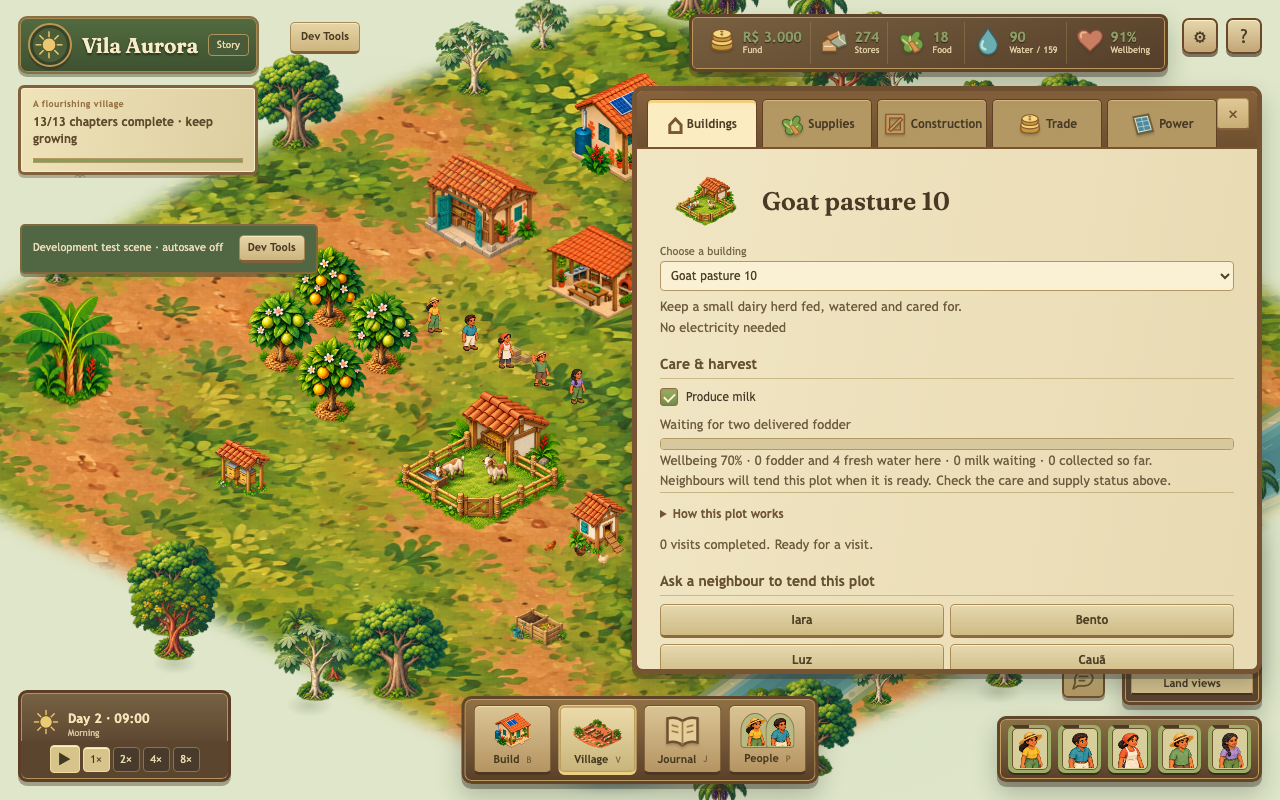
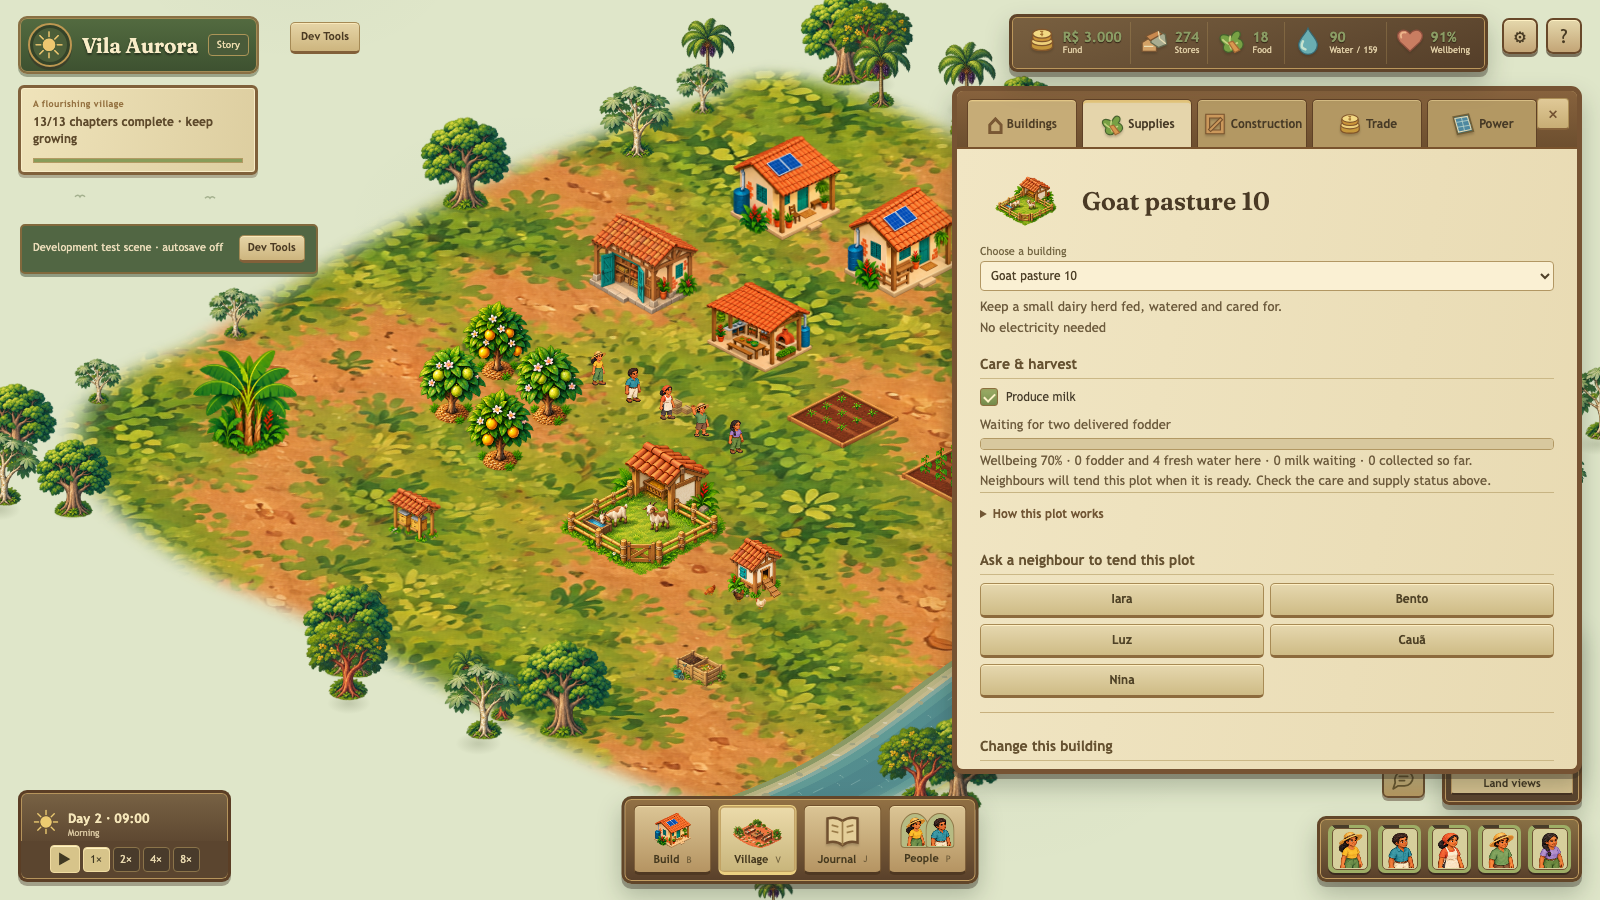
Polish farm inspectors and record complete Story and desktop playtests

diff --git a/web/game-ui.js b/web/game-ui.js
@@ -59,6 +59,15 @@ export function installGameUI({images,avatar,paintPortraits,selectPerson,showPan
   map.onclick=event=>{const rect=map.getBoundingClientRect();mapCentre={x:(event.clientX-rect.left)/rect.width*MAP_SIZE,y:(event.clientY-rect.top)/rect.height*MAP_SIZE};focusAt(mapCentre.x,mapCentre.y);};
   map.onkeydown=event=>{const delta={ArrowLeft:[-2,0],ArrowRight:[2,0],ArrowUp:[0,-2],ArrowDown:[0,2]}[event.key];if(!delta)return;event.preventDefault();event.stopPropagation();mapCentre={x:Math.max(0,Math.min(MAP_SIZE,mapCentre.x+delta[0])),y:Math.max(0,Math.min(MAP_SIZE,mapCentre.y+delta[1]))};focusAt(mapCentre.x,mapCentre.y);};
   const portraits=new Map();
+  function updateBuilding(state){
+    const b=state.village.buildings.find(b=>b.id===Number($('#building-choice').value));
+    const key=b?buildingArtKey(b,state.village.buildings,state.village.economy.projects):'';
+    $('#building-name').textContent=b?`${buildingNames[b.kind]} ${b.id+1}`:'Buildings';
+    $('#building-portrait').hidden=!b;
+    $('#building-visits').hidden=!b||['solar_farm','streetlight','hydro','banana_treatment','wetland','biodigester','warehouse'].includes(b.kind);
+    $('#plan-first-building').hidden=!!b;
+    if(key&&key!==buildingKey){paintIcon($('#building-portrait'),b.kind,images[key],allBuildingArt[key]);buildingKey=key;}
+  }
   function update(state,developer,selected){
     document.body.classList.toggle('developer-session',developer);
     document.body.classList.toggle('sandbox-mode',state.village.mode==='sandbox');
@@ -75,13 +84,6 @@ export function installGameUI({images,avatar,paintPortraits,selectPerson,showPan
       button.dataset.condition=condition;
       button.querySelector('.citizen-status').textContent=away&&r.trip.purpose==='pickup'?'⇄':away&&r.trip.purpose==='work'?'↗':asleep?'z':r.trip?'↔':r.hunger>75||r.energy<25?'!':'';
     }
-    const b=state.village.buildings.find(b=>b.id===Number($('#building-choice').value));
-    const key=b?buildingArtKey(b,state.village.buildings,state.village.economy.projects):'';
-    $('#building-name').textContent=b?`${buildingNames[b.kind]} ${b.id+1}`:'Buildings';
-    $('#building-portrait').hidden=!b;
-    $('#building-visits').hidden=!b||['solar_farm','streetlight','hydro','banana_treatment','wetland','biodigester','warehouse'].includes(b.kind);
-    $('#plan-first-building').hidden=!!b;
-    if(key&&key!==buildingKey){paintIcon($('#building-portrait'),b.kind,images[key],allBuildingArt[key]);buildingKey=key;}
     ctx.clearRect(0,0,map.width,map.height);ctx.save();ctx.scale(map.width/MAP_SIZE,map.height/MAP_SIZE);
     ctx.fillStyle='#87965b';ctx.fillRect(0,0,MAP_SIZE,MAP_SIZE);
     for(let x=0;x<MAP_SIZE;x++)for(let y=0;y<MAP_SIZE;y++){ctx.fillStyle=riverBank(x,y)?'#74a7a0':(x+y)%7===0?'#a9aa6c':'#87965b';ctx.fillRect(x,y,1,1);}
@@ -91,5 +93,5 @@ export function installGameUI({images,avatar,paintPortraits,selectPerson,showPan
     ctx.strokeStyle='#fff5cd';ctx.lineWidth=.3;ctx.beginPath();worldView().forEach((p,i)=>i?ctx.lineTo(p.x,p.y):ctx.moveTo(p.x,p.y));ctx.closePath();ctx.stroke();ctx.restore();
   }
   paintPortraits();
-  return {update,selectSupplyPage};
+  return {update,updateBuilding,selectSupplyPage};
 }

diff --git a/web/main.js b/web/main.js
@@ -1099,6 +1099,8 @@ function updateBuildingPanel() {
   }
   $("#building-power").textContent=b?connectionLabel(state.environment.power.connections.find(c=>c.id===b.id),state.environment.power):"";
   updateAgricultureUI(game,state,inspectBuilding);
+  $("#building-activity").hidden=!!farmNames[b?.kind];
+  $("#building-visits details").hidden=!!farmNames[b?.kind];
   const farming = b && ["garden", "greenhouse"].includes(b.kind);
   $("#crop-controls").hidden = !farming;
   if (farming) {
@@ -1128,6 +1130,7 @@ function updateBuildingPanel() {
   }
   if (utility) $("#building-activity").textContent = b.progress < 100 ? "Open Village → Construction for materials and installation. It connects when construction finishes." : ["solar_farm","streetlight","hydro"].includes(b.kind)?"Works automatically. Manage shared lighting in Power.":"Works automatically. Open Supplies for its stores and processing controls.";
   if(crew)$("#building-activity").textContent="Closed for crew work. Stored crops and equipment return with a completed move.";
+  gameUI?.updateBuilding(state);
   for (const button of $("#building-neighbours").querySelectorAll("button")) button.disabled = !b || b.progress < 100 || !!state.residents.find(r=>r.id===Number(button.dataset.visitor))?.trip;
 }
 function inspectBuilding(id) {

diff --git a/web/planting-ui.js b/web/planting-ui.js
@@ -1,7 +1,7 @@
 const escape=s=>String(s).replace(/[&<>"']/g,c=>({'&':'&amp;','<':'&lt;','>':'&gt;','"':'&quot;',"'":'&#39;'}[c]));
 export function plantingMarkup(s){
   const v=s.village,stores=v.logistics?.stores||[],materials=s.environment.economy.materials;
-  const rows=stores.filter(p=>p.items.slice(21,24).some(Boolean)),cargo=(v.logistics?.shipments||[]).filter(h=>h.carrying&&h.material>=21);
+  const rows=stores.filter(p=>p.items.slice(21,24).some(Boolean)),cargo=(v.logistics?.shipments||[]).filter(h=>h.carrying&&h.material>=21&&h.material<24);
   if(!rows.length&&!cargo.length&&!v.buildings.some(b=>b.kind==='greenhouse'&&b.progress>=100))return '';
   const amount=(n,i)=>`${n} ${(n===1?materials[i].name.replace(/s$/,''):materials[i].name).toLowerCase()}`;
   const name=p=>p.owner.kind==='camp'?'Arrival store':p.owner.kind==='warehouse'?`Storage house ${p.owner.id+1}`:p.owner.kind==='source'?`Material plot ${p.owner.id+1}`:p.owner.kind==='site'?`${v.buildings.find(b=>b.id===p.owner.id)?.kind==='greenhouse'?'Greenhouse':'Garden'} ${p.owner.id+1}`:'Recoverable pile';

diff --git a/web/dev/scenarios.js b/web/dev/scenarios.js
@@ -146,7 +146,7 @@ export function makeScenario(id, fresh, established) {
   if(id.startsWith('climate-')&&!v.buildings.some(b=>b.kind==='hydro')){
     const id=v.economy.next_building++,kind='hydro';
     v.buildings.push({...structuredClone(v.buildings[0]),id,kind,x:26,y:5,progress:100,contributors:0,next_visit:0,visits:0});
-    v.economy.projects.push({building:id,recipe:'standard',priority:1,paused:false,stage:fresh.environment.economy.recipes.find(r=>r.kind===kind).standard.length,labour:0,committed:false,reserved:Array(24).fill(0),consumed:Array(24).fill(0)});
+    v.economy.projects.push({building:id,recipe:'standard',priority:1,paused:false,stage:fresh.environment.economy.recipes.find(r=>r.kind===kind).standard.length,labour:0,committed:false,reserved:Array(fresh.environment.economy.materials.length).fill(0),consumed:Array(fresh.environment.economy.materials.length).fill(0)});
   }
   const prepared=resetMaterialLocations(state);
   if(id.startsWith('climate-'))return withAuthoredElectricalCircuits(withSeasonalWeather(prepared,{dry:id==='climate-dry'}));

diff --git a/farming-plan.md b/farming-plan.md
@@ -11,16 +11,18 @@ Give village planning more choices about land, water, food, livestock feed and c
 - [x] Keep fodder, milk and honey in actual local stores and carried shipments. Respect expiry, storage, production limits and material/water accounts.
 - [x] Let residents tend animals and collect products during community work hours. Require delivered feed and fresh drinking water; pause production when care or supplies are missing. Bees need nearby flowering plots.
 - [x] Integrate readable building controls, pantry and town supplies, Story introductions, Sandbox and a protected farming development scene.
-- [ ] Check actual resident work, dry/wet conditions, overcrowding, moving/removal, invalid saves and exact save round trips. Play through the new controls and visually inspect every new sprite against existing buildings and terrain.
+- [x] Check actual resident work, dry/wet conditions, overcrowding, moving/removal, invalid saves and exact save round trips. Play through the new controls and visually inspect every new sprite against existing buildings and terrain.
 
 ## Review
 
 This branch builds on the interface polish in PR #56. Keep the implementation in incremental commits and a draft pull request; do not merge it without individual approval.
 
-## Evidence in progress
+## Evidence
 
-All 400 native tests, strict all-target lint and 55 public regression checks pass. An 18-day farming run produced fruit, milk and honey through actual resident work, completed a bean rotation, kept every material and liquid account balanced and restored exactly at every daily checkpoint. Each resident retained more than half their waking time for rest, hobbies and social life. The desktop walkthrough passes 13 captures including all 108 artwork entries. All 13 Story chapters completed through earned saved checkpoints; the final uninterrupted replay and broad desktop walkthrough are in progress. A further 84-day seasonal run kept food and all resource accounts healthy, with at least 58% leisure for every resident.
+All 400 native tests, strict all-target lint, 149 JavaScript syntax checks and 58 public regression scripts pass. The fresh Story completes all 13 chapters on day 148 through actual placement, purchases, resident work and gatherings; every chapter restores exactly, and all 21 building kinds are introduced.
 
-Longer playtests exposed overdue feed deliveries and kitchen ingredients losing priority to optional hauling. Pastures now hold six feed, overdue animal care receives attention during normal work windows, and an empty kitchen receives ingredients before optional feed or compost trips.
+The 18-day farming run collects 24 milk, nine honey and 60 orchard fruit, completes a bean rotation, keeps every material and liquid account balanced and restores exactly at all 18 daily checkpoints. Each resident retains more than half their waking time for rest, hobbies and social life. Another 84 earned Story days across two seasonal cycles, plus a 24-day manual/connected utility comparison, preserve healthy reserves, exact checkpoints and residents' leisure.
 
-Crowded kitchens now send organic residues to available storage before they block cooking inputs. The final Story replay also caught and fixed a stale meal reservation when sending an eating resident on a town pickup; regression coverage saves and restores every trip phase.
+The full desktop walkthrough passes 169 captures without browser errors. A separate 13-capture farming and artwork walkthrough passes at 1600×900 and 1280×800, including targeted resident care and actual production. All 108 artwork entries pass the live checks; all 26 building variants appear in the game previews and day/night grid tools.
+
+Playtests exposed overdue feed, optional hauling delaying essential cooking, crowded kitchen residues blocking inputs and a stale meal reservation when sending an eating resident on a town pickup. The fixes preserve actual local ownership and ordinary work hours. Farm inspectors now update their title and portrait while paused, and care warnings replace irrelevant visit messages. The standard local game package has been rebuilt with the same tested engine as the protected farming preview.
